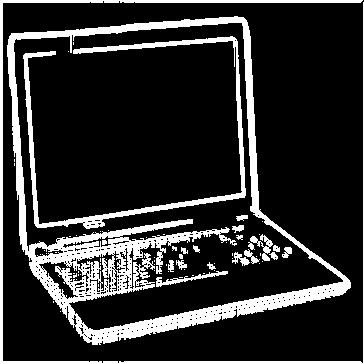
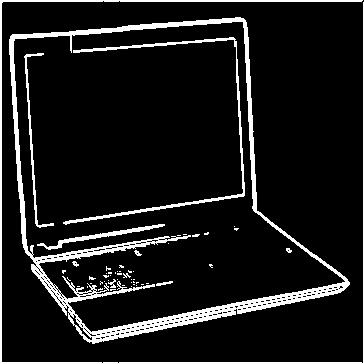
found better high and low thresholds for edge detection updated post edge detection images

diff --git a/Code/Fall Capstone 2013 - ObjectIdentifier/src/edgeDetection/CannyEdgeDetector.java b/Code/Fall Capstone 2013 - ObjectIdentifier/src/edgeDetection/CannyEdgeDetector.java
@@ -4,6 +4,7 @@ import java.awt.Color;
 
 import java.awt.image.BufferedImage;
 import java.awt.image.WritableRaster;
+import java.util.ArrayList;
 
 public class CannyEdgeDetector {
 
@@ -15,8 +16,8 @@ public class CannyEdgeDetector {
 	private double[][] gradientAngle;
 	private double[][] hysteresisImage;
 	private BufferedImage edgeImage;
-	private final double LOWHYSTERESISTHRESHOLD = 20;
-	private final double HIGHHYSTERESISTHRESHOLD = 80;
+	private double LOWHYSTERESISTHRESHOLD;
+	private double HIGHHYSTERESISTHRESHOLD;
 	
 	public CannyEdgeDetector(){
 		gaussFilter = new GaussianFilter();
@@ -25,6 +26,9 @@ public class CannyEdgeDetector {
 	
 	public BufferedImage processImage(BufferedImage img){
 		initialImage = img;
+		double meanPixelValue = calculateMeanPixelValue();
+		LOWHYSTERESISTHRESHOLD = .5*meanPixelValue;
+		HIGHHYSTERESISTHRESHOLD = .8*meanPixelValue;
 		blurImage = new BufferedImage(img.getWidth(),img.getHeight(), BufferedImage.TYPE_BYTE_GRAY);
 		gradientMagnitude = new double[blurImage.getHeight()][blurImage.getWidth()];
 		gradientAngle = new double[blurImage.getHeight()][blurImage.getWidth()];
@@ -36,6 +40,18 @@ public class CannyEdgeDetector {
 		applyHysteresisThresholding();
 		
 		return edgeImage;
+	}
+	
+	private double calculateMeanPixelValue(){
+		double sum = 0.0;
+		
+		for(int i = 0; i < initialImage.getHeight(); i++){
+			for(int j = 0; j < initialImage.getWidth(); j++){
+				sum+=convertToGrayScale(new Color(initialImage.getRGB(i, j)));
+			}
+		}
+		
+		return sum/(1.0*initialImage.getHeight()*initialImage.getWidth());
 	}
 	
 	private void applyGaussFilter(){		
